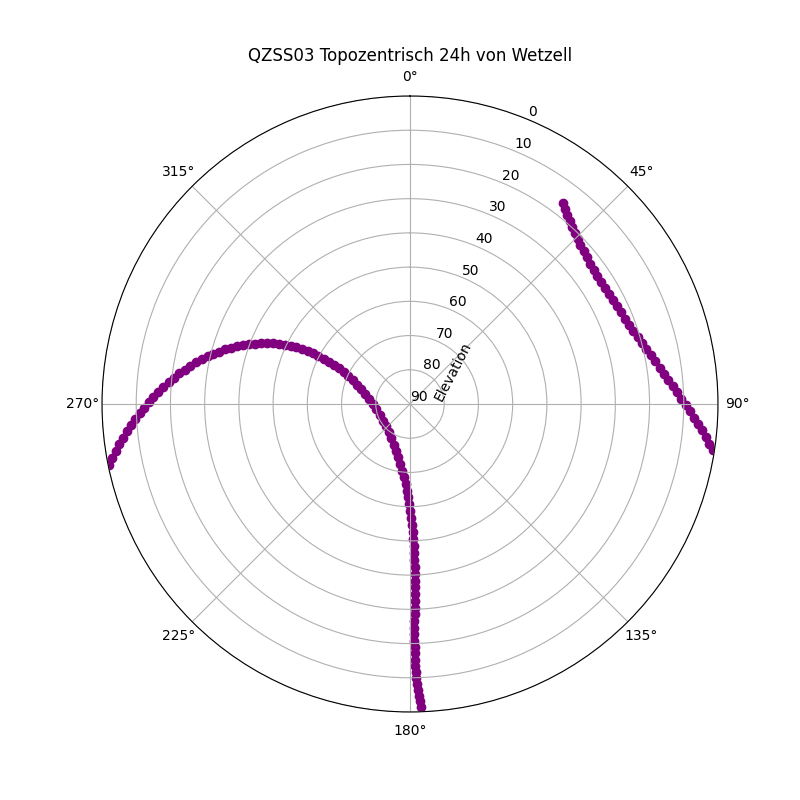
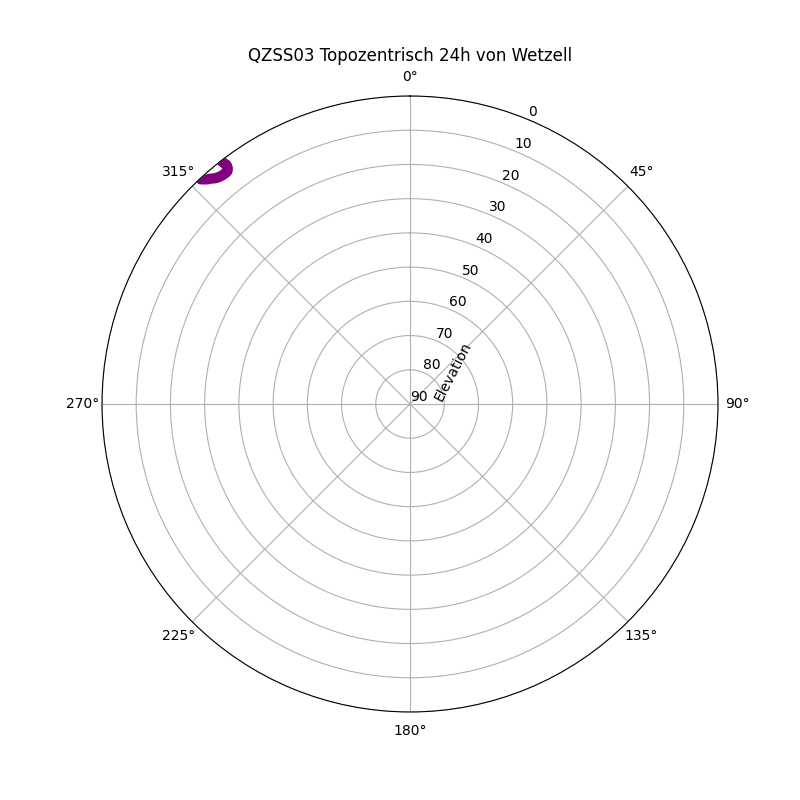
fixed wrong dataset for qzss

diff --git a/main.py b/main.py
@@ -13,7 +13,7 @@ Beidou07    = np.loadtxt('Data/PC07asc.sec')
 Lageos1     = np.loadtxt('Data/PL52asc.sec')
 TEST        = np.loadtxt('Data/TEST.sec')
 
-satellites = {"GPS07": GPS07, "GLONASS07": GLONASS07, "GALILEO07": GALILEO07, "QZSS03": GALILEO07, "Beidou07": Beidou07, "Lageos1": Lageos1}
+satellites = {"GPS07": GPS07, "GLONASS07": GLONASS07, "GALILEO07": GALILEO07, "QZSS03": QZSS03, "Beidou07": Beidou07, "Lageos1": Lageos1}
 #satellites = {"Lageos1": Lageos1}
 #satellites = {"TEST": TEST}
 
